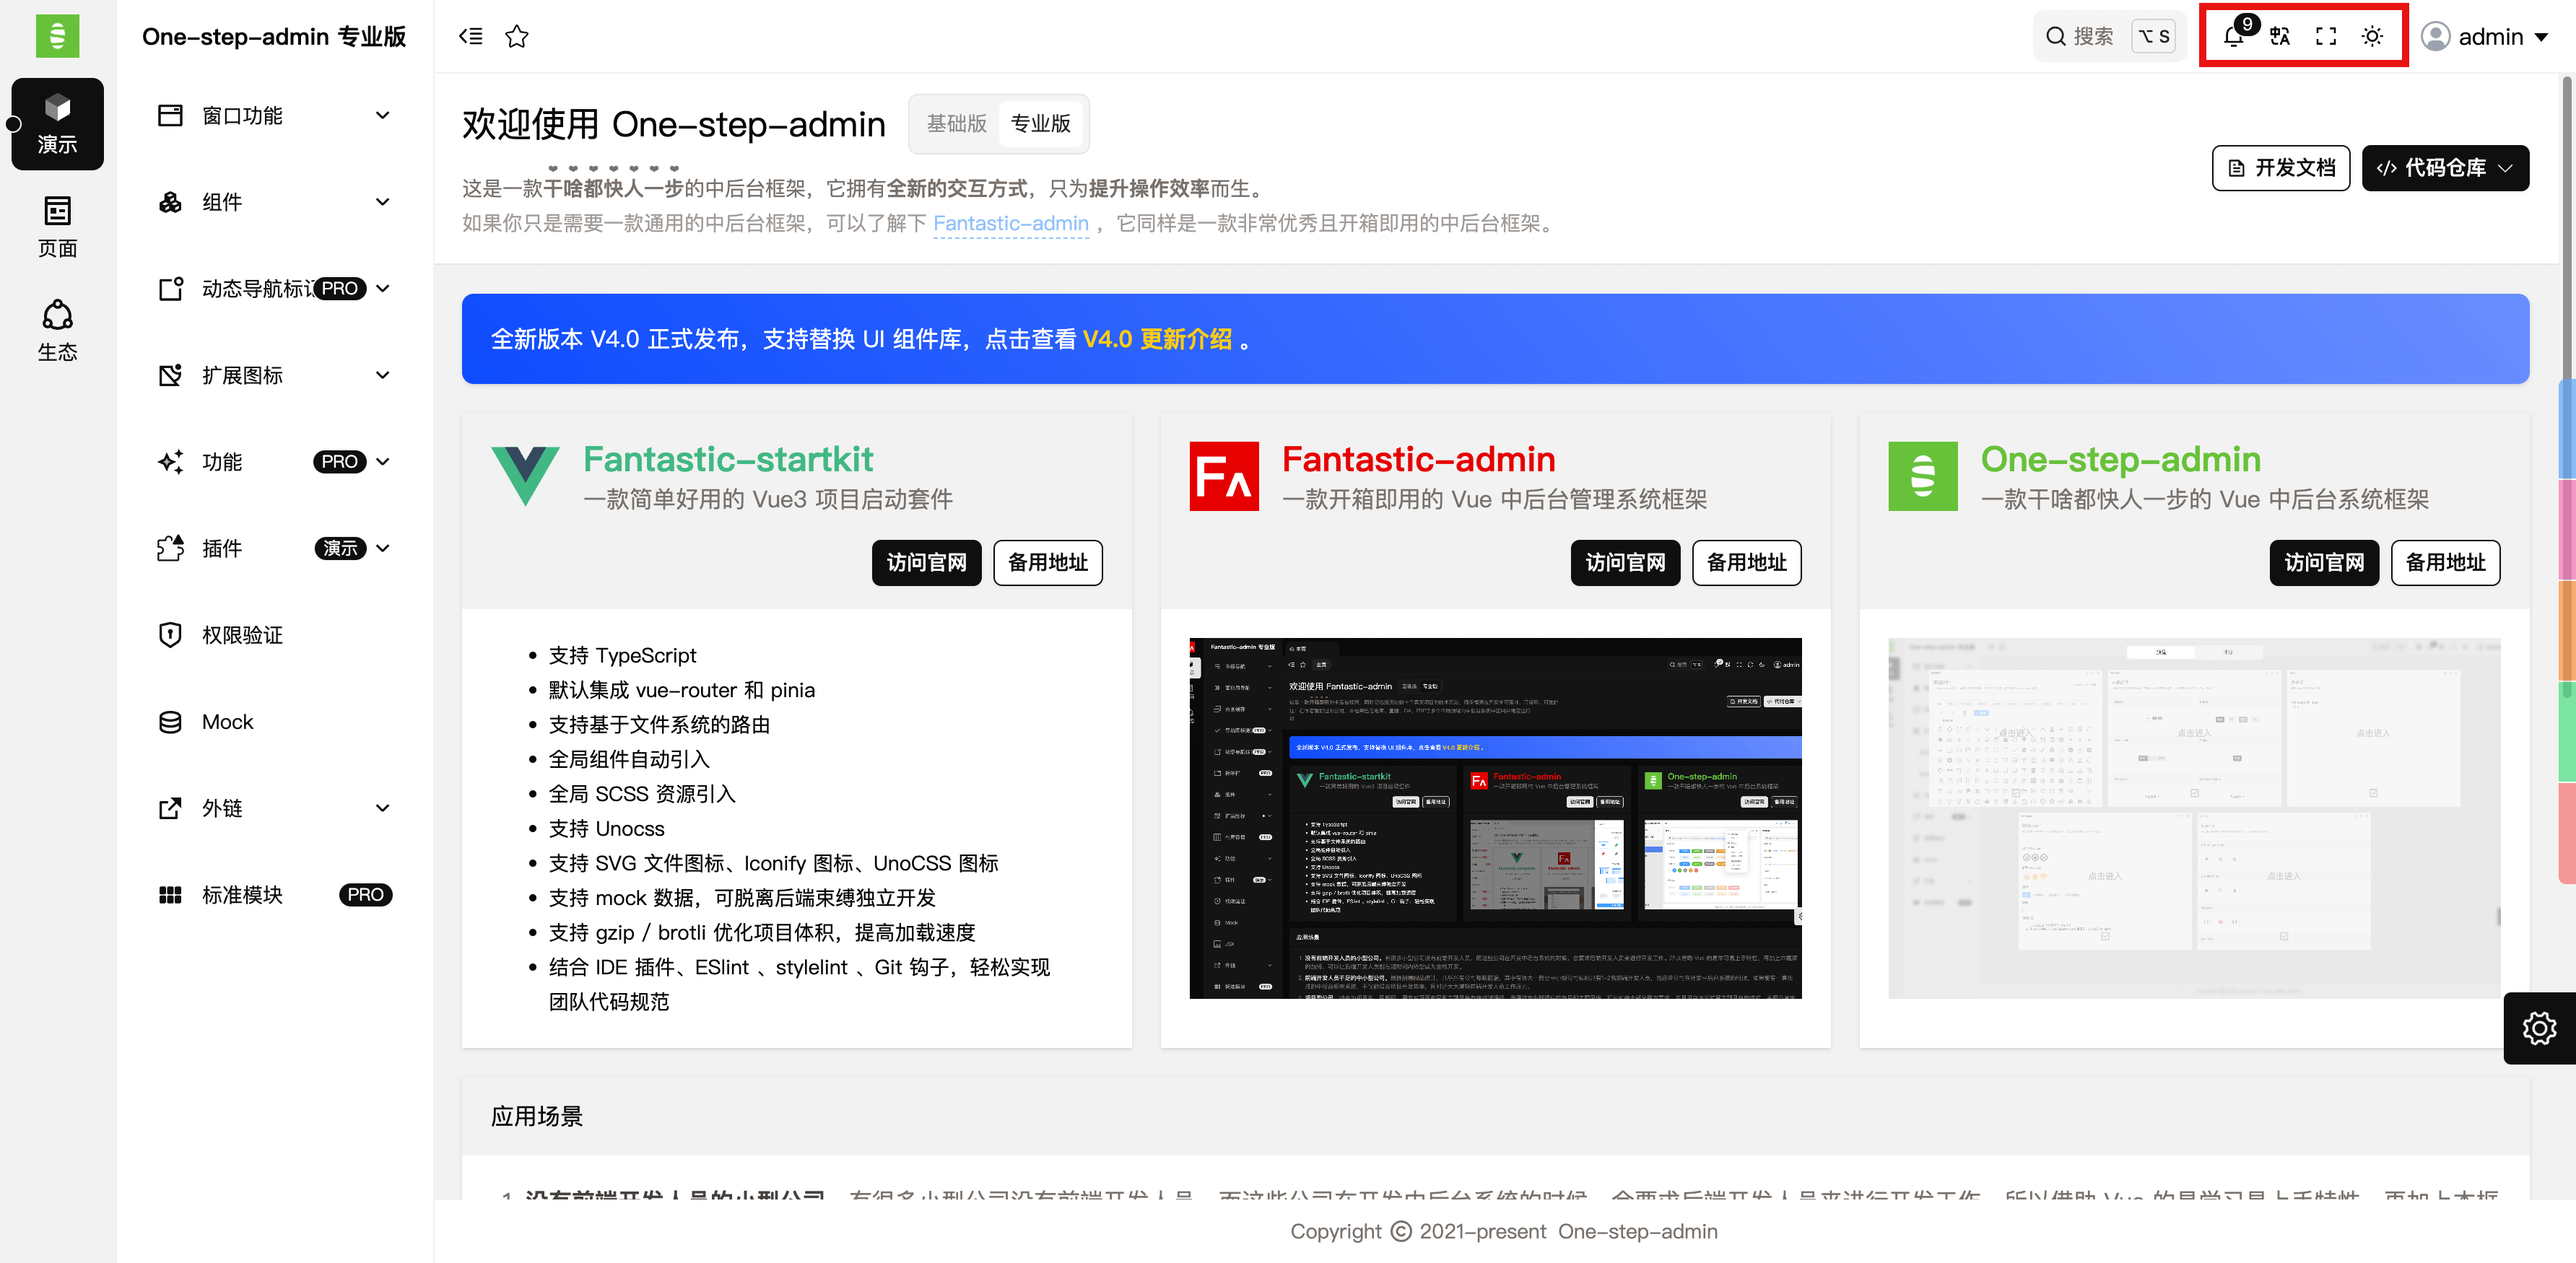
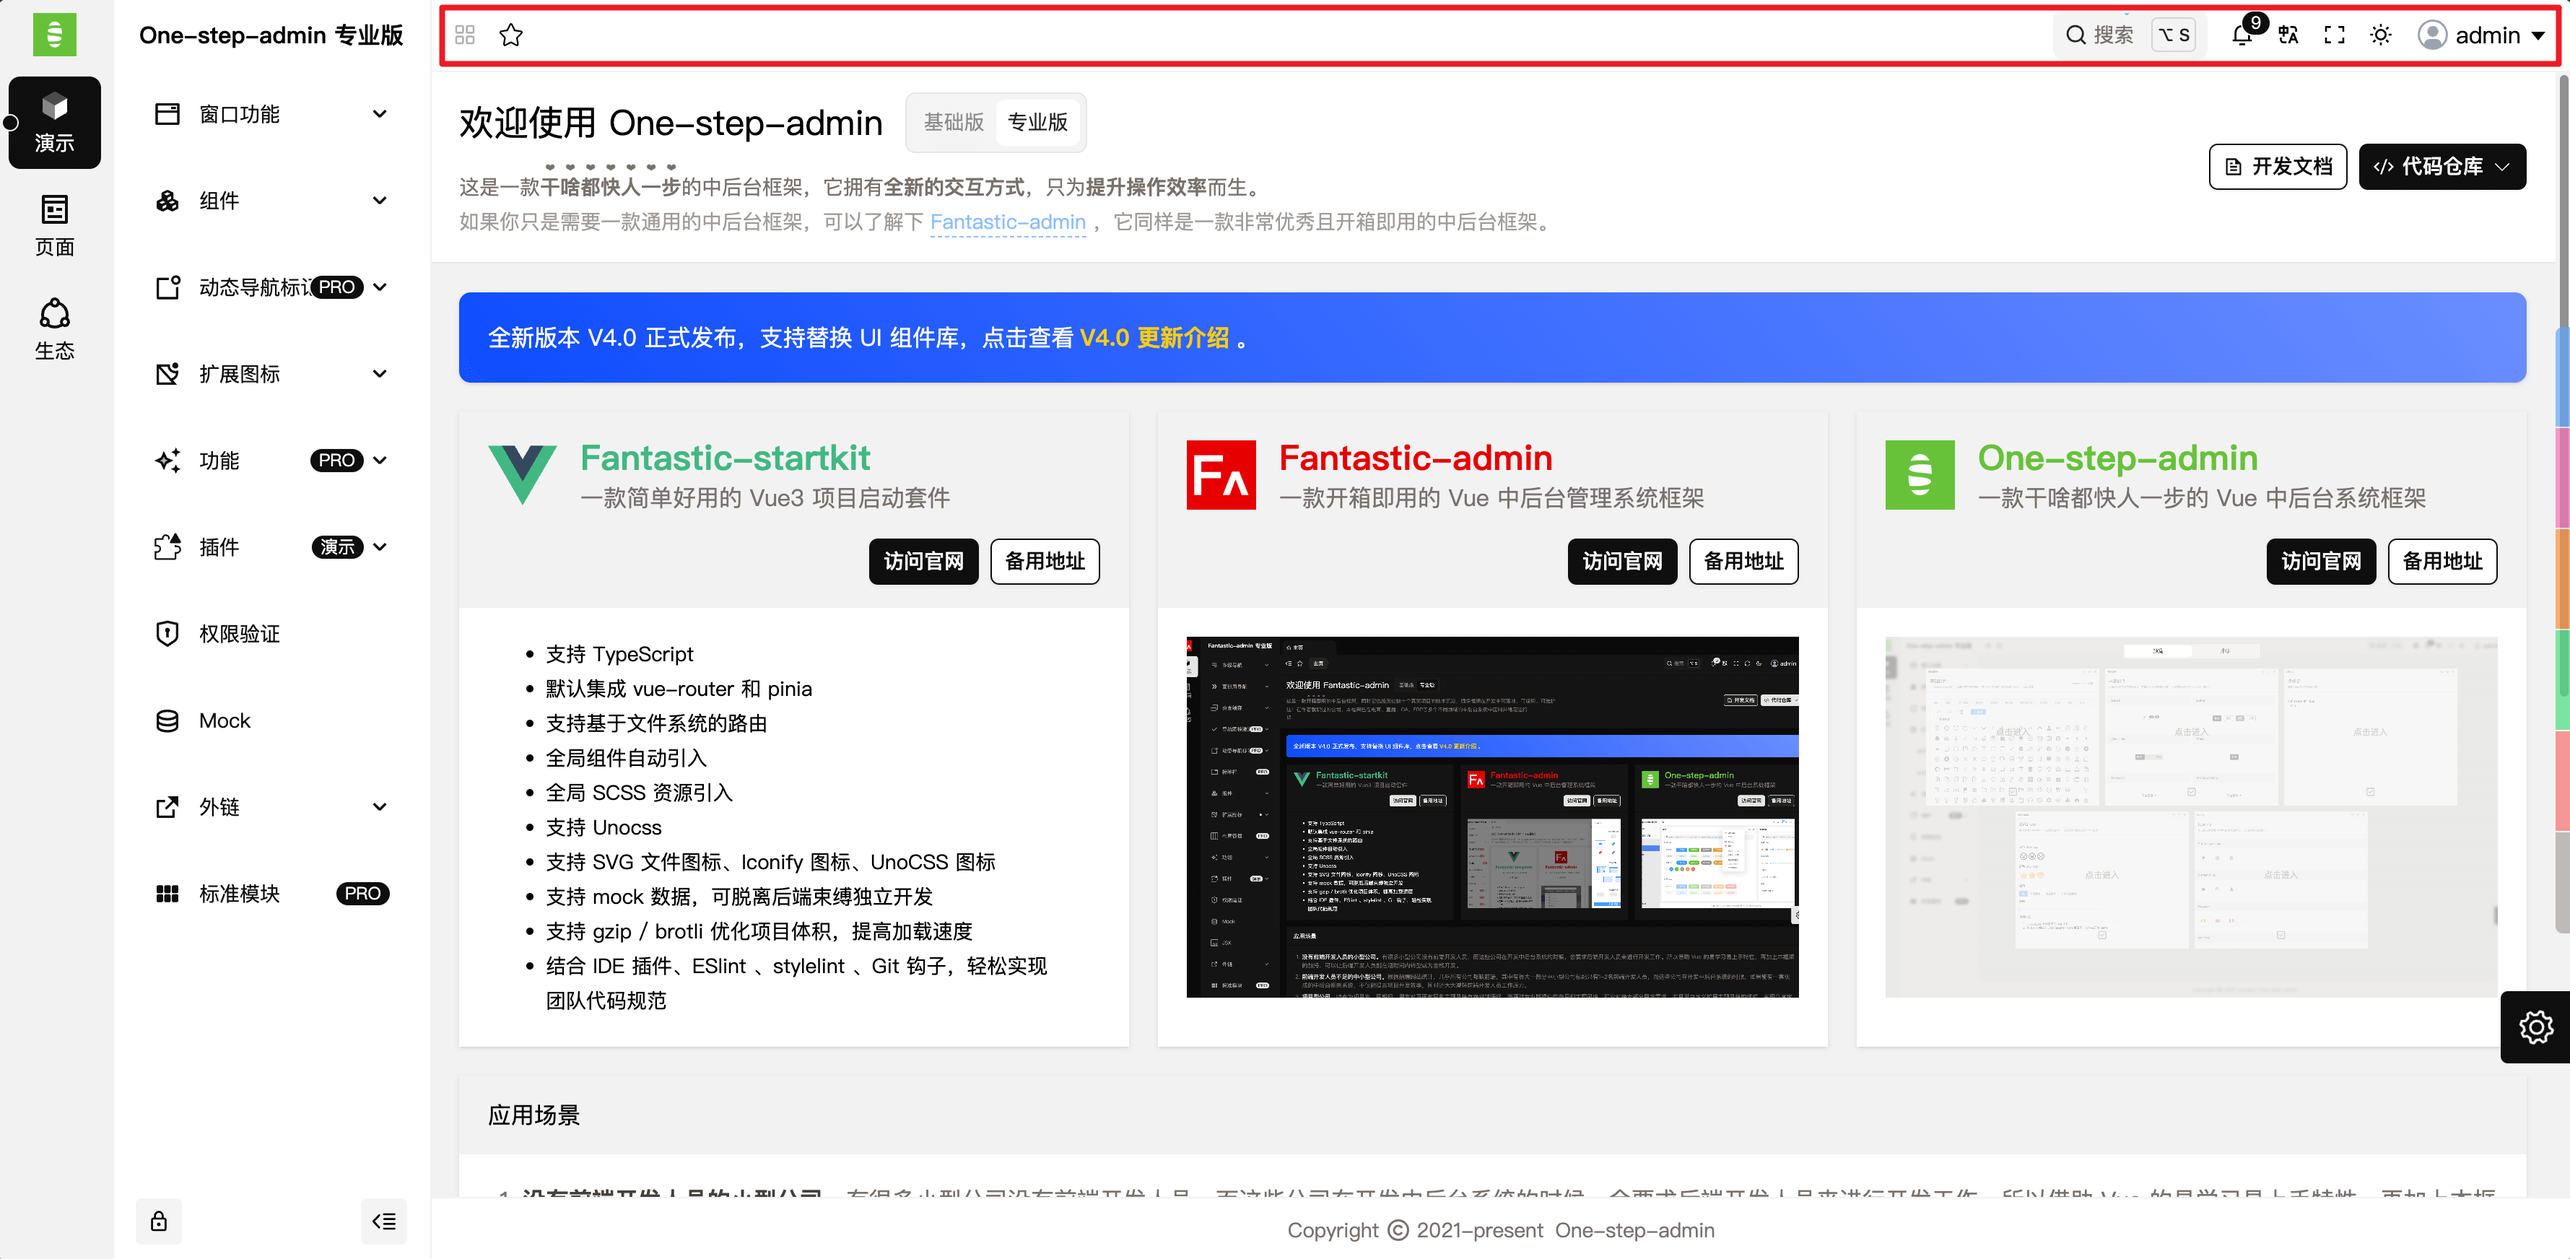
deploy

diff --git a/guide/toolbar.md b/guide/toolbar.md
@@ -4,6 +4,44 @@
 
 ![](/toolbar.png){data-zoomable}
 
+## 窗口预览
+
+在应用配置中设置：
+
+```ts {2-4}
+const globalSettings: Settings.all = {
+  toolbar: {
+    previewWindows: true,
+  },
+}
+```
+
+## 收藏夹 <sup class="pro-badge" />
+
+在应用配置中设置：
+
+```ts {2-4}
+const globalSettings: Settings.all = {
+  toolbar: {
+    favorites: true,
+  },
+}
+```
+
+详细可阅读《[收藏夹](favorites)》。
+
+## 导航搜索
+
+在应用配置中设置：
+
+```ts {2-4}
+const globalSettings: Settings.all = {
+  toolbar: {
+    navSearch: true,
+  },
+}
+```
+
 ## 通知中心 <sup class="pro-badge" />
 
 在应用配置中设置：
@@ -11,7 +49,7 @@
 ```ts {2-4}
 const globalSettings: Settings.all = {
   toolbar: {
-    enableNotification: true,
+    notification: true,
   },
 }
 ```
@@ -28,12 +66,12 @@ const globalSettings: Settings.all = {
 ```ts {2-4}
 const globalSettings: Settings.all = {
   toolbar: {
-    enableI18n: true,
+    i18n: true,
   },
 }
 ```
 
-如果设置为不启用，并不代表不支持国际化切换，只是不会在工具栏显示切换语言的图标。
+如果设置为不启用，并不代表不支持国际化切换，只是不会在工具栏显示切换语言的图标，详细可阅读《[国际化](i18n)》。
 
 ## 浏览器全屏
 
@@ -42,7 +80,7 @@ const globalSettings: Settings.all = {
 ```ts {2-4}
 const globalSettings: Settings.all = {
   toolbar: {
-    enableFullscreen: true,
+    fullscreen: true,
   },
 }
 ```
@@ -54,9 +92,23 @@ const globalSettings: Settings.all = {
 ```ts {2-4}
 const globalSettings: Settings.all = {
   toolbar: {
-    enableColorScheme: true,
+    colorScheme: true,
   },
 }
 ```
 
 如果设置为不启用，并不代表不支持颜色主题切换，只是不会在工具栏显示切换颜色主题的图标。
+
+## 布局 <sup class="pro-badge" />
+
+在应用配置中设置：
+
+```ts {2-4}
+const globalSettings: Settings.all = {
+  toolbar: {
+    layout: ['previewWindows', 'favorites', '->', 'navSearch', 'notification', 'i18n', 'fullscreen', 'colorScheme'],
+  },
+}
+```
+
+可自定义摆放位置和顺序，其中 `->` 为分隔符，用于分隔左右两侧的工具栏。修改时请确保提供的所有值都存在，不可删减。

diff --git a/guide/favorites.md b/guide/favorites.md
@@ -1,18 +1,6 @@
 # 收藏夹 <sup class="pro-badge" />
 
-用户可将常用的导航菜单添加进收藏夹，方便快速访问。
-
-## 开启
-
-在应用配置中设置：
-
-```ts {2-4}
-const globalSettings: Settings.all = {
-  favorites: {
-    enable: true,
-  },
-}
-```
+需在工具栏开启，开启后用户可将常用的导航菜单添加进收藏夹，方便快速访问。
 
 ![](/favorites.png){data-zoomable}
 
